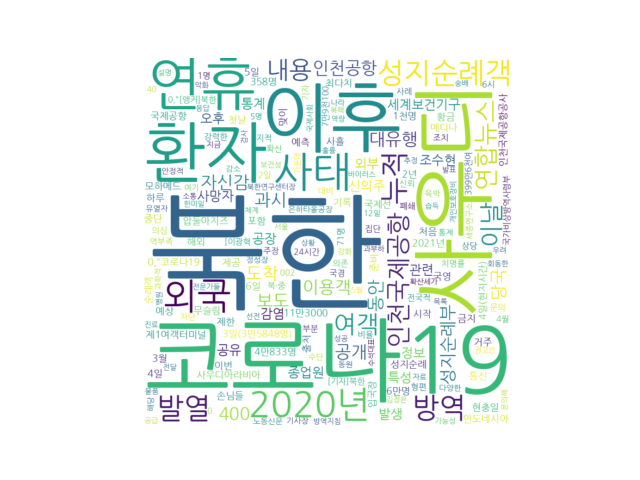
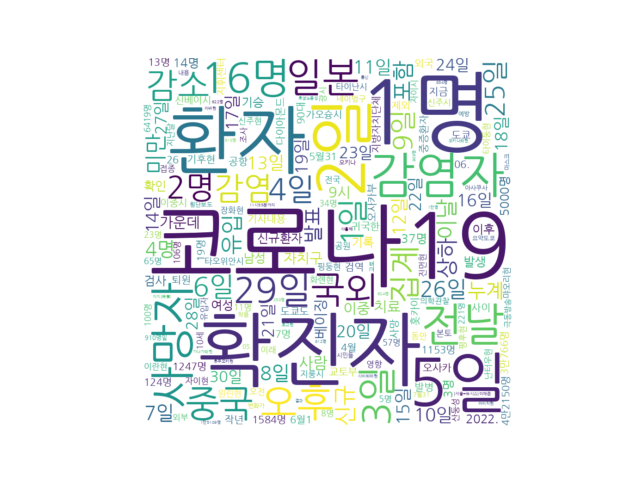
wordcloud 수정

Changed region(s): [[0.2188, 0.0938, 0.8125, 0.9062]]

diff --git a/django/polls/views.py b/django/polls/views.py
@@ -143,7 +143,7 @@ def get_newsdetail(query):
 
     # query = '코로나'   # url 인코딩 에러는 encoding parse.quote(query)
     s_date = "2022.05.01"
-    e_date = "2022.06.04"
+    e_date = "2022.06.05"
     s_from = s_date.replace(".", "")
     e_to = e_date.replace(".", "")
     page = 1
